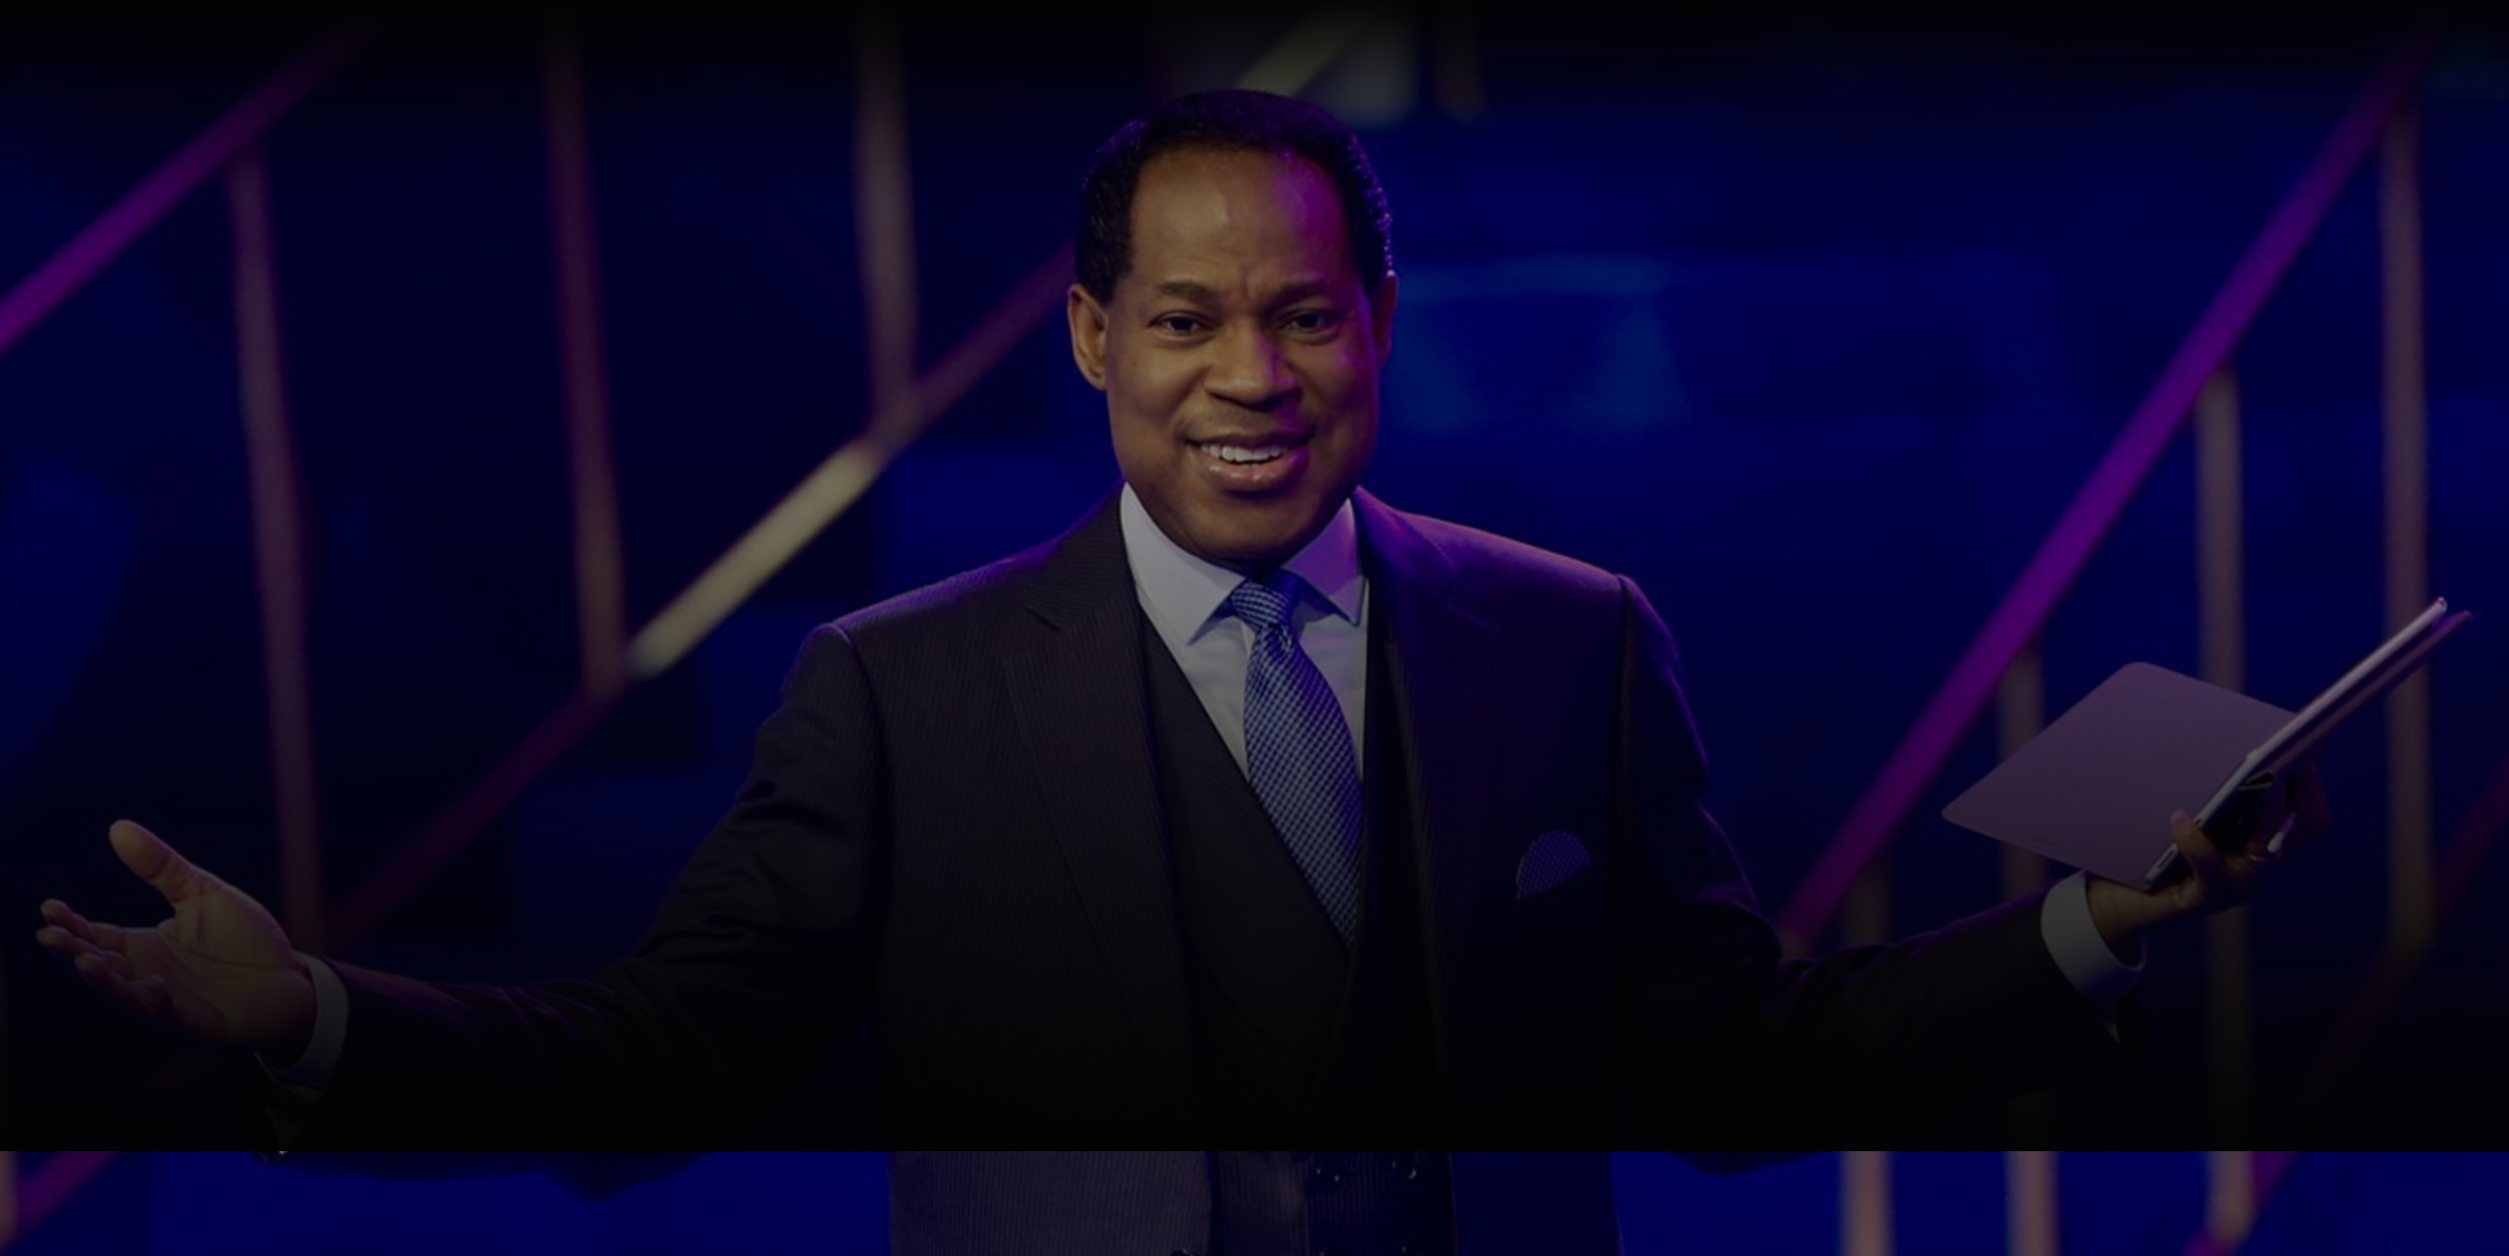
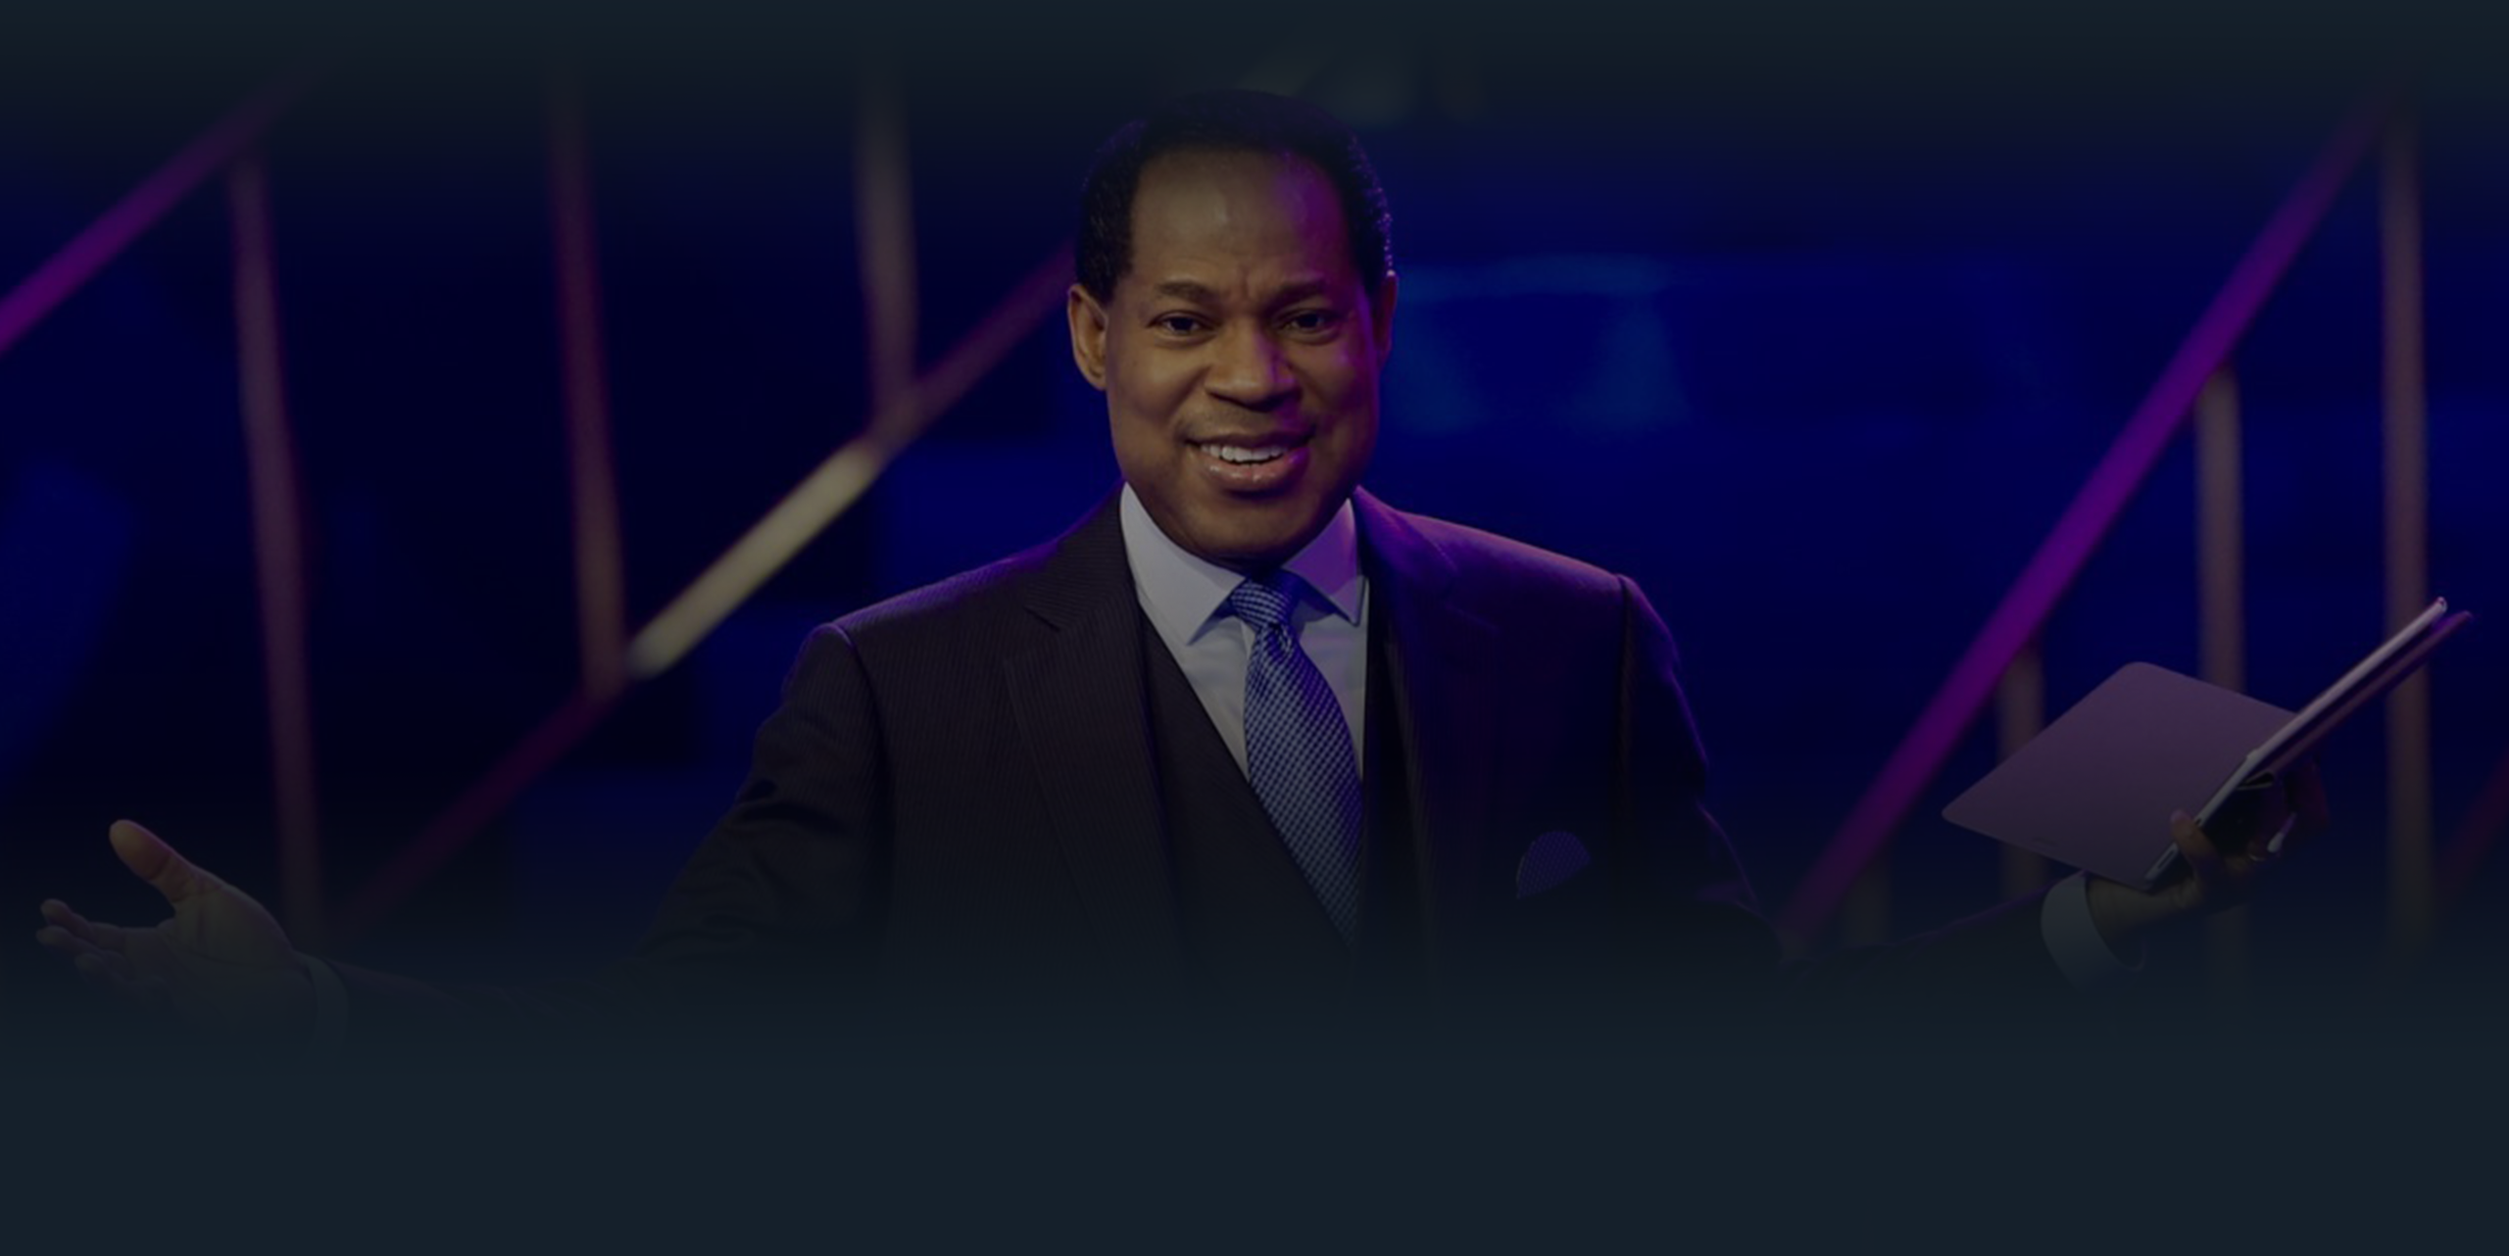
passwords updated

Changed region(s): [[0.0, 0.7488, 1.0, 1.0], [0.0, 0.0, 1.0, 0.0624], [0.4688, 0.1248, 0.5, 0.1872]]

diff --git a/pcdl/browse/templates/browse/home.html b/pcdl/browse/templates/browse/home.html
@@ -8,45 +8,60 @@
         <li data-target="#carouselExampleIndicators" data-slide-to="2"></li>
         </ol>
         <div class="carousel-inner">
-        <div class="carousel-item active">
-        <div class="d-flex align-items-center justify-content-center max-vh-40 m-0">
-            <img src="{% static '/browse/secondpic.png' %}" alt="Max-width 50%">
+            <div class="carousel-item active">
+                <div class="d-flex align-items-center justify-content-center max-vh-40 m-0">
+                    <img src="{% static '/browse/secondpic.png' %}" alt="Max-width 50%">
+                </div>
+            </div>
+            
+            <a class="carousel-control-prev" href="#carouselExampleIndicators" role="button" data-slide="prev">
+            <span class="carousel-control-prev-icon" aria-hidden="true"></span>
+            <span class="sr-only">Previous</span>
+            </a>
+            <a class="carousel-control-next" href="#carouselExampleIndicators" role="button" data-slide="next">
+            <span class="carousel-control-next-icon" aria-hidden="true"></span>
+            <span class="sr-only">Next</span>
+            </a>
         </div>
-        </div>
-        
-        <a class="carousel-control-prev" href="#carouselExampleIndicators" role="button" data-slide="prev">
-        <span class="carousel-control-prev-icon" aria-hidden="true"></span>
-        <span class="sr-only">Previous</span>
-        </a>
-        <a class="carousel-control-next" href="#carouselExampleIndicators" role="button" data-slide="next">
-        <span class="carousel-control-next-icon" aria-hidden="true"></span>
-        <span class="sr-only">Next</span>
-        </a>
     </div>
 
 
     <div class="container m-5 mt-1">
-        {% for post in videos%}
-        <div class="float-left ">
-            <div class="card text-white bg-dark mb-auto" style="width: 17rem;">
-                <img class="card-img-top" src="{% static '/browse/firstpic.png' %}" alt="Card image cap">
-                <div class="card-body">
-                <h5 class="card-title text-white">{{ post.title }}</h5>
-                <p class="card-text">{{ post.vid_description }}</p>
-                <a href="#" class="btn btn-outline-light">Play</a>
+        <h3>All videos</h3>
+            {% for post in videos%}
+            <div class="float-left ">
+                <div class="card text-white bg-dark mb-auto" style="width: 17rem;">
+                    <img class="card-img-top" src="{% static '/browse/firstpic.png' %}" alt="Card image cap">
+                    <div class="card-body">
+                        <h5 class="card-title text-white">{{ post.title }}</h5>
+                        <p class="card-text">{{ post.vid_description }}</p>
+                        <a href="{% url 'video-detail' post.id %}" class="btn btn-outline-light">More Info</a>
+                    </div>
                 </div>
             </div>
-        </div>
-
-            <!-- <article class="media content-section">
-                <div class="media-body">
-                <div class="article-metadata">
-                    <small class="text-muted">{{ post.date_posted|date:"F d, Y" }}</small>
-                </div>
-                <h2><a class="article-title" href="#">{{ post.title }}</a></h2>
-                <p class="article-content">{{ post.vid_description }}</p>
-                </div>
-            </article> -->
-        {% endfor %}
+            {% endfor %}
     </div>
+</br>
+    <div>
+        {% if is_paginated %}
+        {% if page_obj.has_previous %}
+            <a class="btn btn-outline-info mb-4" href="?page=1">First</a>
+            <a class="btn btn-outline-info mb-4" href="?page={{ page_obj.previous_page_number }}">Previous</a>
+        {% endif %}
+    
+        {% for num in page_obj.paginator.page_range %}
+            {% if page_obj.number == num %}
+                <a class="btn btn-info mb-4" href="?page={{ num }}">{{ num }}</a>
+            {% elif num > page_obj.number|add:'-3' and num < page_obj.number|add:'3'%}
+            <a class="btn btn-outline-info mb-4" href="?page={{ num }}">{{ num }}</a>
+            {% endif %}
+        {% endfor %}
+    
+        {% if page_obj.has_next %}
+            <a class="btn btn-outline-info mb-4" href="?page={{ page_obj.next_page_number }}">Next</a>
+            <a class="btn btn-outline-info mb-4" href="?page={{ page_obj.paginator.number_pages }}">Last</a>
+        {% endif %}
+        {% endif %}
+    </div>
+
 {% endblock content %}

diff --git a/pcdl/browse/templates/browse/latest.html b/pcdl/browse/templates/browse/latest.html
@@ -8,35 +8,60 @@
         <li data-target="#carouselExampleIndicators" data-slide-to="2"></li>
         </ol>
         <div class="carousel-inner">
-        <div class="carousel-item active">
-        <div class="d-flex align-items-center justify-content-center max-vh-40 m-0">
-            <img src="{% static '/browse/secondpic.png' %}" alt="Max-width 50%">
+            <div class="carousel-item active">
+                <div class="d-flex align-items-center justify-content-center max-vh-40 m-0">
+                    <img src="{% static '/browse/secondpic.png' %}" alt="Max-width 50%">
+                </div>
+            </div>
+            
+            <a class="carousel-control-prev" href="#carouselExampleIndicators" role="button" data-slide="prev">
+            <span class="carousel-control-prev-icon" aria-hidden="true"></span>
+            <span class="sr-only">Previous</span>
+            </a>
+            <a class="carousel-control-next" href="#carouselExampleIndicators" role="button" data-slide="next">
+            <span class="carousel-control-next-icon" aria-hidden="true"></span>
+            <span class="sr-only">Next</span>
+            </a>
         </div>
-        </div>
-        
-        <a class="carousel-control-prev" href="#carouselExampleIndicators" role="button" data-slide="prev">
-        <span class="carousel-control-prev-icon" aria-hidden="true"></span>
-        <span class="sr-only">Previous</span>
-        </a>
-        <a class="carousel-control-next" href="#carouselExampleIndicators" role="button" data-slide="next">
-        <span class="carousel-control-next-icon" aria-hidden="true"></span>
-        <span class="sr-only">Next</span>
-        </a>
     </div>
 
 
     <div class="container m-5 mt-1">
-        {% for post in videos%}
-        <div class="float-left ">
-            <div class="card text-white bg-dark mb-auto" style="width: 17rem;">
-                <img class="card-img-top" src="{% static '/browse/firstpic.png' %}" alt="Card image cap">
-                <div class="card-body">
-                <h5 class="card-title text-white">{{ post.title }}</h5>
-                <p class="card-text">{{ post.vid_description }}</p>
-                <a href="#" class="btn btn-outline-light">Play</a>
+        <h3>Lastest</h3>
+            {% for post in videos%}
+            <div class="float-left ">
+                <div class="card text-white bg-dark mb-auto" style="width: 17rem;">
+                    <img class="card-img-top" src="{% static '/browse/firstpic.png' %}" alt="Card image cap">
+                    <div class="card-body">
+                    <h5 class="card-title text-white">{{ post.title }}</h5>
+                    <p class="card-text">{{ post.vid_description }}</p>
+                    <a href="{% url 'video-detail' post.id %}" class="btn btn-outline-light">More Info</a>
+                    </div>
                 </div>
             </div>
-        </div>
-        {% endfor %}
+            {% endfor %}
     </div>
+
+    <div>
+        {% if is_paginated %}
+        {% if page_obj.has_previous %}
+            <a class="btn btn-outline-info mb-4" href="?page=1">First</a>
+            <a class="btn btn-outline-info mb-4" href="?page={{ page_obj.previous_page_number }}">Previous</a>
+        {% endif %}
+    
+        {% for num in page_obj.paginator.page_range %}
+            {% if page_obj.number == num %}
+                <a class="btn btn-info mb-4" href="?page={{ num }}">{{ num }}</a>
+            {% elif num > page_obj.number|add:'-3' and num < page_obj.number|add:'3'%}
+            <a class="btn btn-outline-info mb-4" href="?page={{ num }}">{{ num }}</a>
+            {% endif %}
+        {% endfor %}
+    
+        {% if page_obj.has_next %}
+            <a class="btn btn-outline-info mb-4" href="?page={{ page_obj.next_page_number }}">Next</a>
+            <a class="btn btn-outline-info mb-4" href="?page={{ page_obj.paginator.number_pages }}">Last</a>
+        {% endif %}
+        {% endif %}
+    </div>
+
 {% endblock content %}

diff --git a/pcdl/users/templates/users/password_reset.html b/pcdl/users/templates/users/password_reset.html
@@ -17,21 +17,13 @@
         <form method="POST">
             {% csrf_token %}
             <fieldset class="forms-group">
-                <legend class="border-bottom mb-4">Log In</legend>
+                <legend class="border-bottom mb-4">Reset Password</legend>
                 {{ form|crispy }}
             </fieldset>
             <div class="form-group">
-                <button class="btn btn-outline-info" type="submit">Login</button>
-                <small class="text-muted ml-2">
-                    <a href="{% url 'password_reset %}">Forgot password?</a>
-                </small>
+                <button class="btn btn-outline-info" type="submit">Request Password Reset</button>
             </div>
         </form>
-        <div class="border-top pt-3">
-            <small class="text-muted">
-                Create an account? <a class="ml-2" href="{% url 'register' %}">Sign up</a>
-            </small>
-        </div>
 
     </div>
 </div>

diff --git a/pcdl/users/templates/users/password_reset_confirm.html b/pcdl/users/templates/users/password_reset_confirm.html
@@ -17,21 +17,13 @@
         <form method="POST">
             {% csrf_token %}
             <fieldset class="forms-group">
-                <legend class="border-bottom mb-4">Log In</legend>
+                <legend class="border-bottom mb-4">Reset Password</legend>
                 {{ form|crispy }}
             </fieldset>
             <div class="form-group">
-                <button class="btn btn-outline-info" type="submit">Login</button>
-                <small class="text-muted ml-2">
-                    <a href="{% url 'password_reset %}">Forgot password?</a>
-                </small>
+                <button class="btn btn-outline-info" type="submit">Reset Password</button>
             </div>
         </form>
-        <div class="border-top pt-3">
-            <small class="text-muted">
-                Create an account? <a class="ml-2" href="{% url 'register' %}">Sign up</a>
-            </small>
-        </div>
 
     </div>
 </div>

diff --git a/pcdl/browse/templates/browse/videos.html b/pcdl/browse/templates/browse/videos.html
@@ -12,7 +12,7 @@
                 <div class="card-body">
                 <h5 class="card-title text-white">{{ post.title }}</h5>
                 <p class="card-text">{{ post.vid_description }}</p>
-                <a href="{% url 'video-detail' post.id %}" class="btn btn-outline-light">Play</a>
+                <a href="{% url 'video-detail' post.id %}" class="btn btn-outline-light">More Info</a>
                 </div>
             </div>
         </div>

diff --git a/pcdl/browse/templates/browse/audios.html b/pcdl/browse/templates/browse/audios.html
@@ -12,7 +12,7 @@
                 <div class="card-body">
                 <h5 class="card-title text-white">{{ post.title }}</h5>
                 <p class="card-text">{{ post.vid_description }}</p>
-                <a href="#" class="btn btn-outline-light">Play</a>
+                <a href="{% url 'video-detail' post.id %}" class="btn btn-outline-light">More Info</a>
                 </div>
             </div>
         </div>

diff --git a/pcdl/browse/templates/browse/video_detail.html b/pcdl/browse/templates/browse/video_detail.html
@@ -1,9 +1,10 @@
 {% extends "browse/base.html" %}
 {% load static %}
 {% block content%}
-    <h3>Watch Video</h3>
+    
     <div class="container m-5 mt-3">
     </br>
+    <h3>Watch Video</h3>
         <div class="float-left ">
             <div class="card text-white bg-dark mb-auto" style="width: 17rem;">
                 <img class="card-img-top" src="{% static '/browse/firstpic.png' %}" alt="Card image cap">

diff --git a/pcdl/users/templates/users/password_reset_complete.html b/pcdl/users/templates/users/password_reset_complete.html
@@ -1,0 +1,7 @@
+{% extends "browse/base.html" %}
+{% block content%}
+    <div class="alert alert-info">
+        Your password has been set.
+    </div>
+    <a href="{% url 'login' %}"> Sign In Here.</a>
+{% endblock content %}

diff --git a/pcdl/users/templates/users/password_reset_done.html b/pcdl/users/templates/users/password_reset_done.html
@@ -1,0 +1,6 @@
+{% extends "browse/base.html" %}
+{% block content%}
+    <div class="alert alert-info">
+        An email has been sent with instructions to reset your password.
+    </div>
+{% endblock content %}

diff --git a/pcdl/browse/static/browse/main.css b/pcdl/browse/static/browse/main.css
@@ -1,5 +1,5 @@
 body {
-    background: black;
+    background: rgb(21, 32, 43);
     color: #333333;
     margin-top: 5rem;
     margin-left: 90px;

diff --git a/pcdl/pcdl/urls.py b/pcdl/pcdl/urls.py
@@ -27,6 +27,10 @@ urlpatterns = [
     path('profile/', user_views.profile, name='profile'),
     path('login/', auth_views.LoginView.as_view(template_name='users/login.html'), name='login'),
     path('logout/', auth_views.LogoutView.as_view(template_name='users/logout.html'), name='logout'),
+    path('password-reset/', auth_views.PasswordResetView.as_view(template_name='users/password_reset.html'), name='password_reset'),
+    path('password-reset/done/', auth_views.PasswordResetDoneView.as_view(template_name='users/password_reset_done.html'), name='password_reset_done'),
+    path('password-reset/confirm/<uidb64>/<token>/', auth_views.PasswordResetConfirmView.as_view(template_name='users/password_reset_confirm.html'), name='password_reset_confirm'),
+    path('password-reset-complete/', auth_views.PasswordResetCompleteView.as_view(template_name='users/password_reset_complete.html'), name='password_reset_complete'), 
     path('', include('browse.urls')),
 ]
 

diff --git a/pcdl/browse/views.py b/pcdl/browse/views.py
@@ -1,6 +1,7 @@
 from django.shortcuts import render
 from django.http import HttpResponse
 from django.contrib.auth.decorators import login_required
+from django.contrib.auth.mixins import LoginRequiredMixin, UserPassesTestMixin
 from django.views.generic import ListView, DetailView
 from .models import Video
 
@@ -15,11 +16,12 @@ def index(request):
     }
     return render(request, 'browse/home.html', context)
 
-class VideoListView(ListView):
+class VideoListView(LoginRequiredMixin, ListView):
     model = Video
     template_name = 'browse/home.html' # <app>/<model>_<viewtype>.html
     context_object_name = 'videos'
     ordering = ['date_posted']
+    paginate_by = 2
 
 class VideoDetailView(DetailView):
     model = Video
